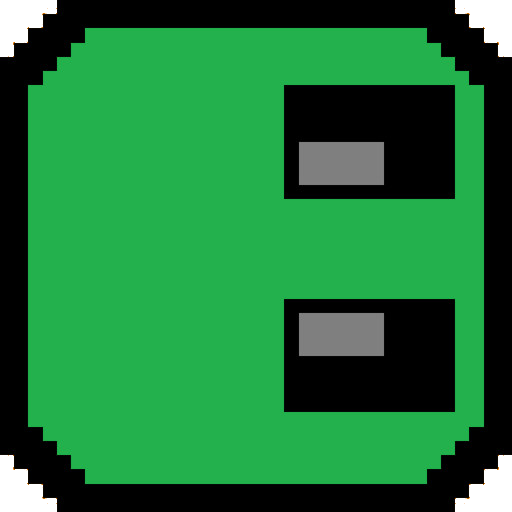
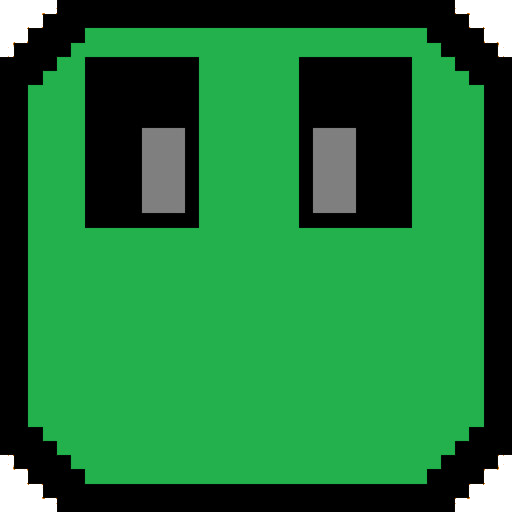
Добавлен поворот головы змейки

Changed region(s): [[0.5312, 0.0938, 0.9062, 0.4688], [0.1562, 0.0938, 0.4062, 0.4688], [0.5312, 0.5625, 0.9062, 0.8125]]

diff --git a/SnakeGame/Snake.cs b/SnakeGame/Snake.cs
@@ -42,7 +42,40 @@ internal class Snake
     {
         //Проверка на попытку повенуть змейку "в себя"
         if ((newMotionVector.X+headLocation.X,newMotionVector.Y+headLocation.Y)!=lastHeadLocaton)
-        motionVector = newMotionVector;
+        {
+            if (newMotionVector != motionVector)
+            {
+                if (motionVector.X > 0)
+                {
+                    if (newMotionVector.Y > 0)
+                        cells[0].cellBox.Image.RotateFlip(RotateFlipType.Rotate90FlipNone);
+                    else
+                        cells[0].cellBox.Image.RotateFlip(RotateFlipType.Rotate270FlipNone);
+                }
+                else if (motionVector.X < 0)
+                {
+                    if (newMotionVector.Y < 0)
+                        cells[0].cellBox.Image.RotateFlip(RotateFlipType.Rotate90FlipNone);
+                    else
+                        cells[0].cellBox.Image.RotateFlip(RotateFlipType.Rotate270FlipNone);
+                }
+                else if (motionVector.Y > 0)
+                {
+                    if (newMotionVector.X < 0)
+                        cells[0].cellBox.Image.RotateFlip(RotateFlipType.Rotate90FlipNone);
+                    else
+                        cells[0].cellBox.Image.RotateFlip(RotateFlipType.Rotate270FlipNone);
+                }
+                else if (motionVector.Y < 0)
+                {
+                    if (newMotionVector.X > 0)
+                        cells[0].cellBox.Image.RotateFlip(RotateFlipType.Rotate90FlipNone);
+                    else
+                        cells[0].cellBox.Image.RotateFlip(RotateFlipType.Rotate270FlipNone);
+                }
+                motionVector = newMotionVector;
+            }
+        }
     }
     public void AddCell(Food food)
     {

diff --git a/SnakeGame/Properties/Resources.Designer.cs b/SnakeGame/Properties/Resources.Designer.cs
@@ -79,15 +79,5 @@ namespace SnakeGame.Properties {
                 return ((System.Drawing.Bitmap)(obj));
             }
         }
-        
-        /// <summary>
-        ///   Поиск локализованного ресурса типа System.Drawing.Bitmap.
-        /// </summary>
-        internal static System.Drawing.Bitmap WDF_1732106 {
-            get {
-                object obj = ResourceManager.GetObject("WDF_1732106", resourceCulture);
-                return ((System.Drawing.Bitmap)(obj));
-            }
-        }
     }
 }
